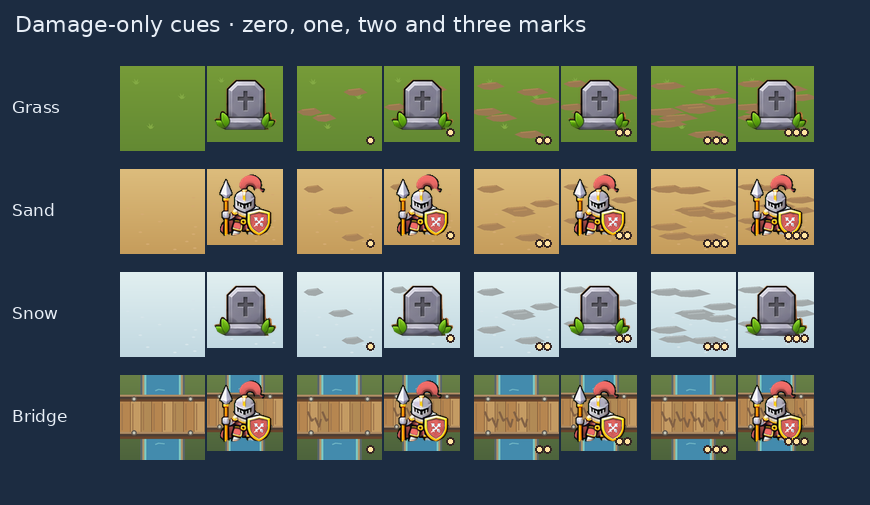
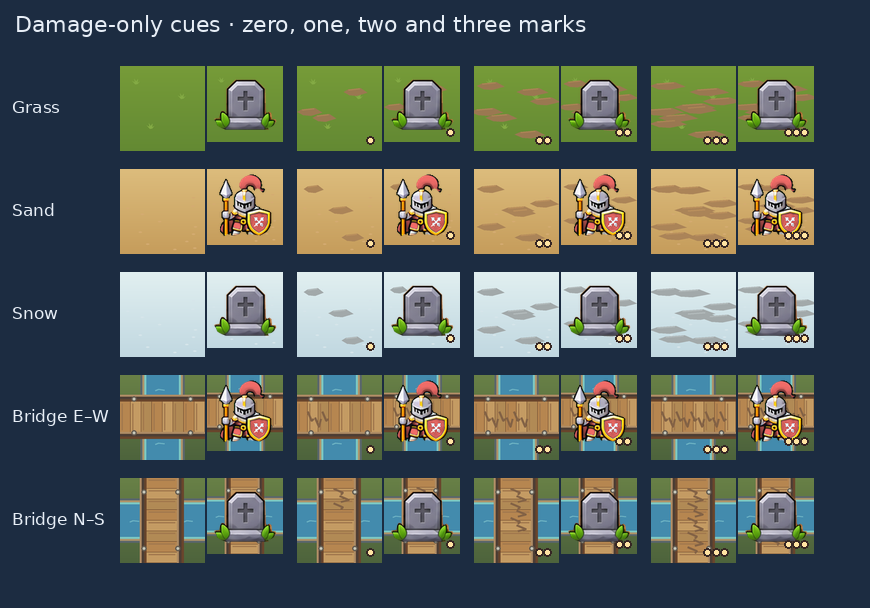
Cover water seams and measure dense fortifications

diff --git a/scripts/art/make-sheets.py b/scripts/art/make-sheets.py
@@ -74,19 +74,34 @@ def source_sheet(source):
 def terrain_sheet():
     files=sorted(f.stem for f in BANK.glob("*.png") if not f.stem.startswith(("wall-","knight","castle","grave"))
                  and not f.stem.endswith(("-1","-2","-3")))
-    image,d=sheet(900,68+((len(files)+7)//8)*107,"Terrain library · intact and blocked variants")
+    seam_y=68+((len(files)+7)//8)*107
+    image,d=sheet(900,seam_y+190,"Terrain library · intact and blocked variants")
     for i,name in enumerate(files):
         x,y=11+(i%8)*112,55+(i//8)*107
         place(image,asset(name),x+10,y,82)
         d.text((x,y+84),name,fill=TEXT,font=font(10))
+    for x, label, layout in [
+        (21, "River bend and end caps", (("grass-plain","river-s","grass-plain"),
+                                        ("grass-plain","river-ne","river-w"))),
+        (315, "Walkable bridge across the river", (("grass-plain","river-ns","grass-plain"),
+                                                  ("grass-plain","bridge-ew","grass-plain"))),
+        (609, "Continuous lakeshore", (("lake-wn","lake-n","lake-ne"),
+                                      ("lake-sw","lake-s","lake-es"))),
+    ]:
+        d.text((x,seam_y),label,fill=TEXT,font=font(14))
+        for row, tiles in enumerate(layout):
+            for column, tile in enumerate(tiles):
+                place(image,asset(tile),x+column*76,seam_y+24+row*76,76)
     image.convert("RGB").save(OUT/"terrain-bank.png",optimize=True)
 
 
 def damage_sheet():
-    image,d=sheet(870,505,"Damage-only cues · zero, one, two and three marks")
-    for i,kind in enumerate(("grass-plain","sand-plain","snow-plain","bridge-ew")):
+    image,d=sheet(870,608,"Damage-only cues · zero, one, two and three marks")
+    surfaces=(("Grass","grass-plain"),("Sand","sand-plain"),("Snow","snow-plain"),
+              ("Bridge E–W","bridge-ew"),("Bridge N–S","bridge-ns"))
+    for i,(label,kind) in enumerate(surfaces):
         y=66+i*103
-        d.text((12,y+31),kind.split("-")[0].capitalize(),fill=TEXT,font=font(17))
+        d.text((12,y+31),label,fill=TEXT,font=font(17))
         for damage in range(4):
             x=120+damage*177
             terrain=asset(kind+f"-{damage}" if damage else kind)

diff --git a/Documentation/BoardArtVerification.md b/Documentation/BoardArtVerification.md
@@ -38,9 +38,20 @@ The two comparison sheets use the same Classic local opening positions on each r
 
 The play sheet shows draft dots, a provisional Main target, a resolved Knight Support castle join, and a terrain preview. Demonstration shows the new mountain, forest, ruins and sand families. Great Divide uses existing crossings for the explicit east–west bridge motif within the illustrated north–south river. New Match reads the same terrain and accent assets. [Play and preview](assets/10b/play-and-preview.jpg)
 
+Two synthetic boards render isolated castles, pairs, corners, straight lines, T and cross joins, a 2 × 2 group, mixed factions, diagonal neighbors and dense castle clusters through the production renderer. Damaged ground beneath knights and graves appears in the bottom row. [Fortifications in-engine](assets/10b/fortifications-in-engine.jpg)
+
 ## Rendering observations
 
-All six map and orientation combinations preserved their grid bounds and piece sprite counts. The candidate added one damage-layer node and loaded 9–13 more resource objects in the capture process. Godot's static memory counter increased by about 65–85 KiB. This is an engine allocation counter. The 104 × 104 base/mask pair is about 84.5 KiB at RGBA8 per texture pair, and a 128 × 128 pair is 128 KiB at RGBA8. These are upper estimates for resident uncompressed texels if both members are uploaded as RGBA8. The assets use lossless import and no mipmaps. The engine shares textures and one faction material per owner and shape. It creates no per-cell materials.
+All six map and orientation combinations preserved their grid bounds and piece sprite counts. The candidate added one damage-layer node and loaded 9–13 more resource objects in the capture process. Godot's static memory counter increased by about 65–85 KiB. This is an engine allocation counter. A 104 × 104 base/mask pair takes at most 84.5 KiB for uncompressed texels at RGBA8. A 128 × 128 pair takes 128 KiB. The assets use lossless import and no mipmaps. The engine shares textures and uses one faction material per owner and shape.
+
+Each synthetic board ran at 900 × 690 on Mesa llvmpipe. Each cell in the timing columns shows the range of medians from two 72-frame windows. Active windows alternated between two provisional targets using mouse input. Timings measure frame intervals, including the software renderer and OS scheduling. The largest observed 95th percentile was 14.5 ms. Godot reported that the display driver could not change V-Sync.
+
+| 12 × 12 fixture | Settled baseline → candidate | Active baseline → candidate | Scene changes |
+| --- | --- | --- | --- |
+| 34 sprites with representative joins | 5.5–6.5 → 6.0–7.0 ms | 6.1–6.4 → 6.6–7.4 ms | +22 resources, +1 node, +130 KiB static, 27–28 → 63–64 draw calls |
+| 64 sprites with dense clusters | 5.8–6.8 → 7.9–9.0 ms | 6.0–6.2 → 7.7 ms | +28 resources, +1 node, +175 KiB static, 31–32 → 89–90 draw calls |
+
+Different wall textures and materials increase draw calls even with shared resources. The dense synthetic layout exposes that cost on this renderer. Android cost remains a device check.
 
 ## Verification and exports
 
